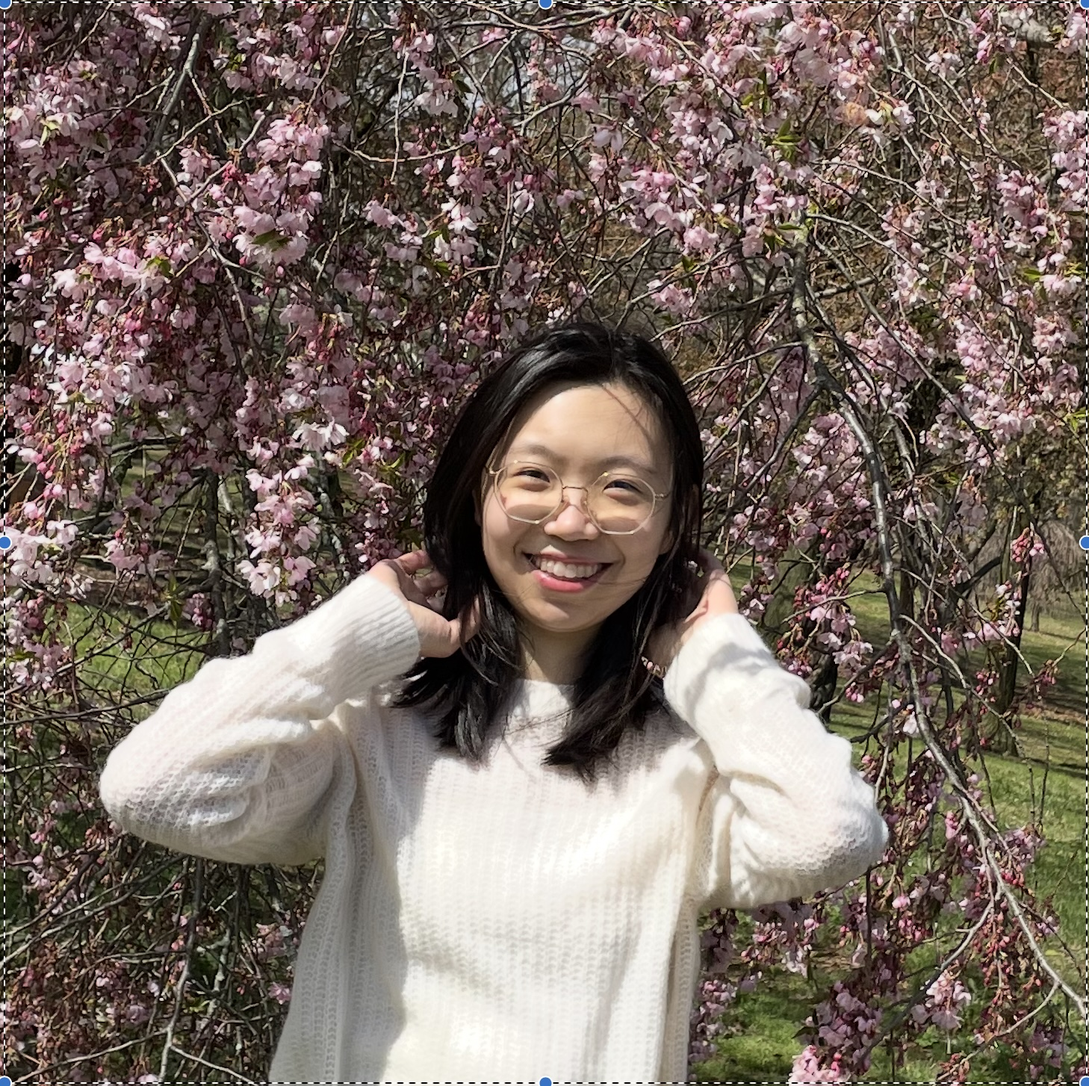
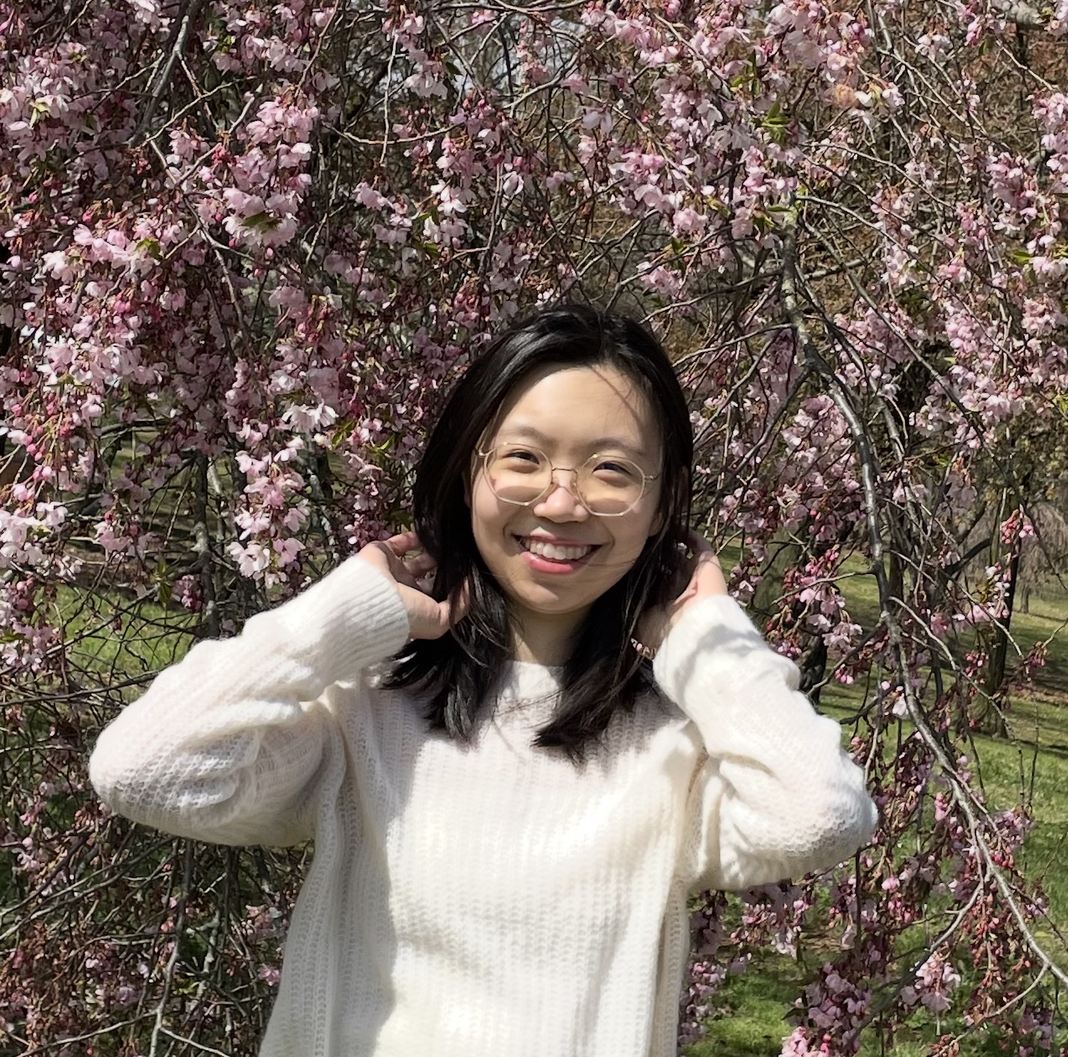
update profile photo

diff --git a/docs/about.md b/docs/about.md
@@ -10,7 +10,7 @@ redirect_from:
 
 # About Me
 <p align="center">
-  <img src="images/profile-photo.jpg" />
+  <img src="images/profile-photo.jpg" width="300" height="300" alt="Profile photo">
 </p>
 
 Hi! I am Yuchen Zhang, a researcher/engineer interested in Statistics, Natural Language Processing, and Machine 
